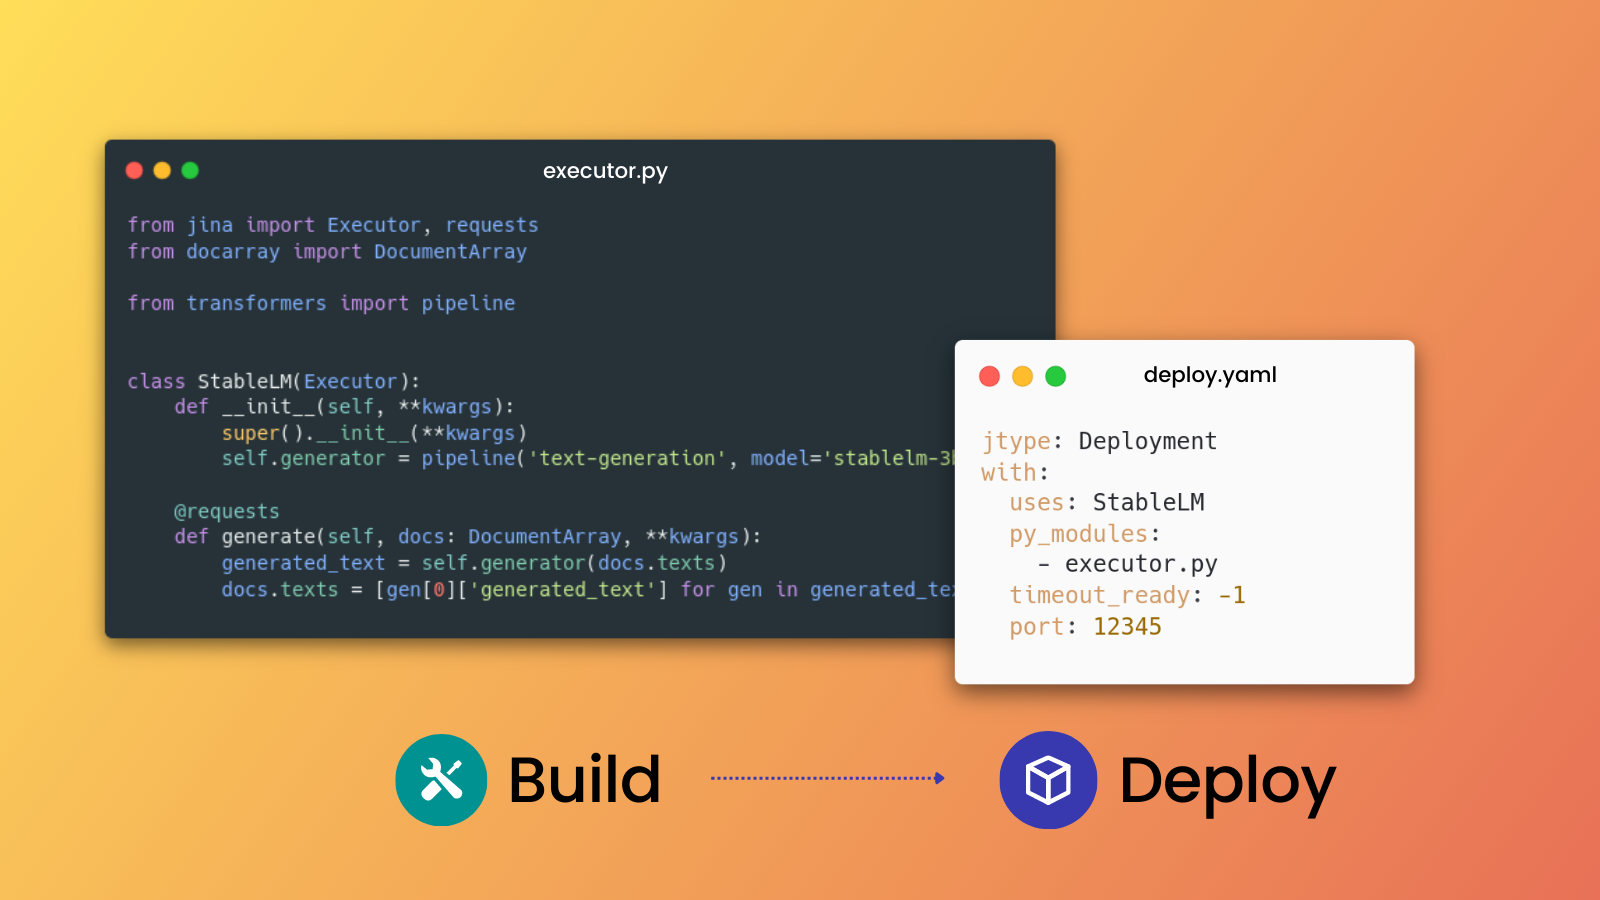
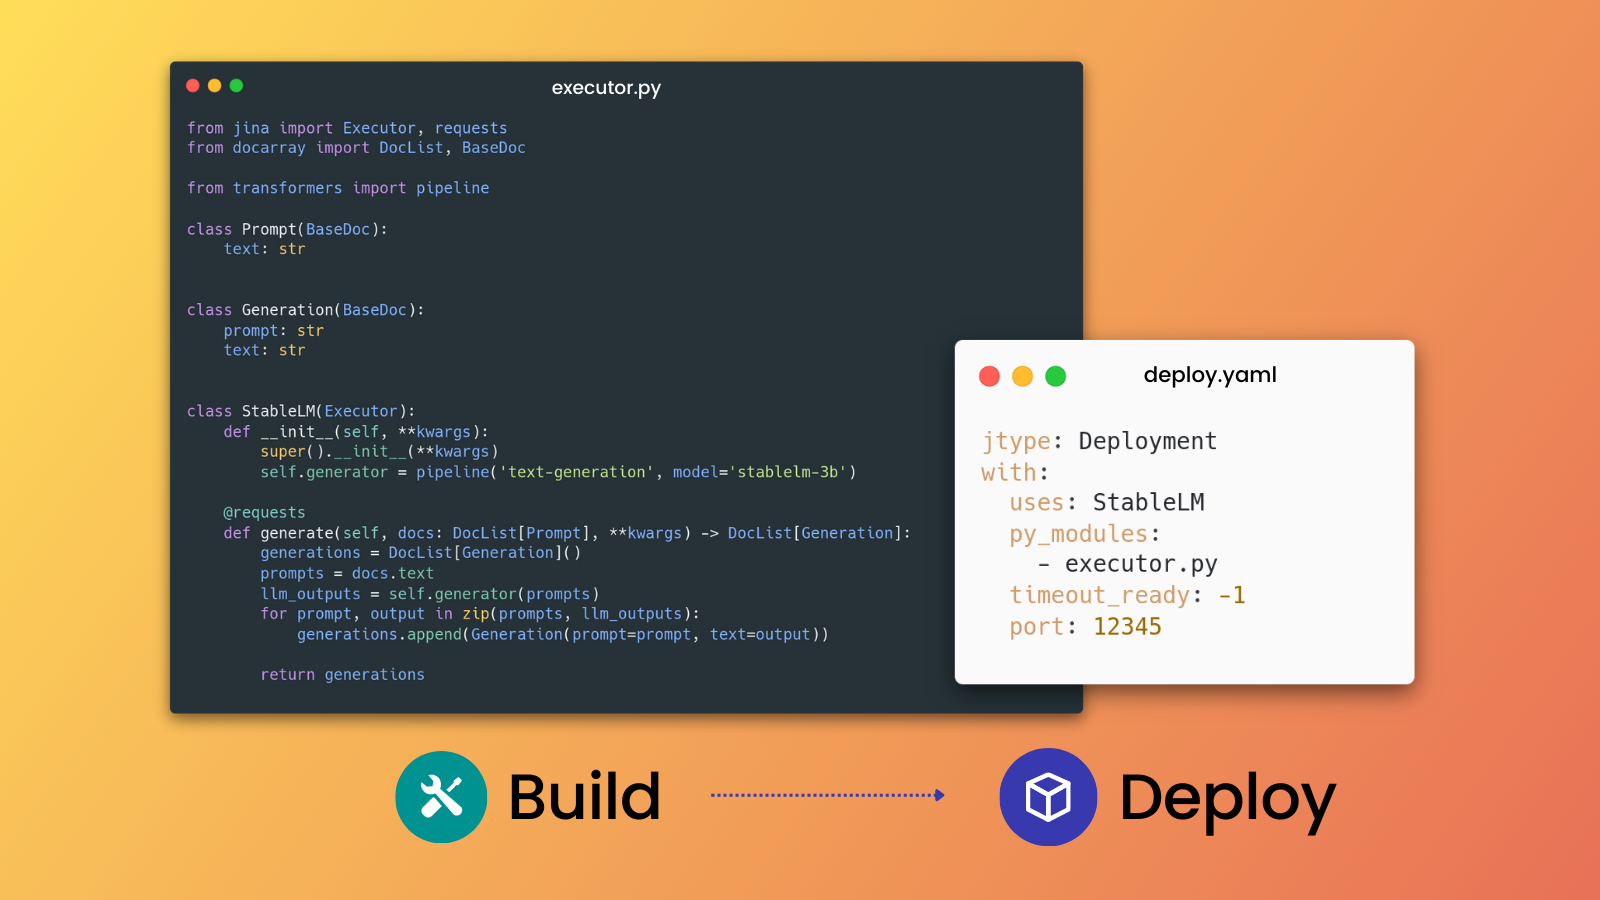
docs: update README not to use Hub

Changed region(s): [[0.0625, 0.0622, 0.8438, 0.9333], [0.5625, 0.84, 0.5938, 0.9022], [0.3438, 0.1867, 0.4062, 0.2178]]

diff --git a/README.md b/README.md
@@ -25,7 +25,6 @@
 
 Jina lets you build multimodal [**AI services**](#build-ai-services) and [**pipelines**](#build-a-pipeline) that communicate via gRPC, HTTP and WebSockets, then scale them up and deploy to production. You can focus on your logic and algorithms, without worrying about the infrastructure complexity.
 
-TODO: Adapt image to docarray >= 0.30
 ![](./.github/images/build-deploy.png)
 
 Jina provides a smooth Pythonic experience transitioning from local deployment to advanced orchestration frameworks like Docker-Compose, Kubernetes, or Jina AI Cloud. Jina makes advanced solution engineering and cloud-native technologies accessible to every developer.
@@ -121,8 +120,8 @@ class StableLM(Executor):
     def generate(self, docs: DocList[Prompt], **kwargs) -> DocList[Generation]:
         generations = DocList[Generation]()
         prompts = docs.texts
-        llm_ouptuts = self.generator(prompts)
-        for prompt, output in zip(prompts, llm_ouptuts):
+        llm_outputs = self.generator(prompts)
+        for prompt, output in zip(prompts, llm_outputs):
             generations.append(Generation(prompt=prompt, text=output))
         return generations
 ```
@@ -216,8 +215,43 @@ A Flow is a [DAG](https://de.wikipedia.org/wiki/DAG) pipeline, composed of a set
 > **Note**
 > If you just want to serve a single Executor, you can use a [Deployment](#build-ai--ml-services).
 
-TODO: This is not going to work, avoid reusing from Executor Hub
-For instance, let's combine [our StableLM language model](#build-ai--ml-services) with a Stable Diffusion image generation service from Jina AI's [Executor Hub](https://cloud.jina.ai/executors). Chaining these services together into a [Flow](https://docs.jina.ai/concepts/flow/) will give us a service that will generate images based on a prompt generated by the LLM.
+For instance, let's combine [our StableLM language model](#build-ai--ml-services) with a Stable Diffusion image generation service. Chaining these services together into a [Flow](https://docs.jina.ai/concepts/flow/) will give us a service that will generate images based on a prompt generated by the LLM.
+
+
+<table>
+<tr>
+<th><code>text_to_image.py</code></th> 
+<tr>
+<td>
+
+```python
+import numpy as np
+from jina import Executor, requests
+from docarray import BaseDoc, DocList
+from docarray.documents import ImageDoc
+
+class Generation(BaseDoc):
+    prompt: str
+    text: str
+
+
+class TextToImage(Executor):
+    def __init__(self, **kwargs):
+        super().__init__(**kwargs)
+        from diffusers import StableDiffusionPipeline
+        import torch
+        self.pipe = StableDiffusionPipeline.from_pretrained("CompVis/stable-diffusion-v1-4", torch_dtype=torch.float16).to("cuda")
+
+    @requests
+    def generate_image(self, docs: DocList[Generation], **kwargs) -> DocList[ImageDoc]:
+        images = self.pipe(docs.texts).images  # image here is in [PIL format](https://pillow.readthedocs.io/en/stable/)
+        for i, doc in enumerate(docs):
+            doc.tensor = np.array(images[i])
+```
+
+</td>
+</tr>
+</table>
 
 ![](./.github/images/flow-diagram.png)
 
@@ -235,16 +269,13 @@ Build the Flow with either Python or YAML:
 ```python
 from jina import Flow
 from executor import StableLM
+from text_to_image import TextToImage
 
 flow = (
-    Flow()
-    .add(uses=StableLM, timeout_ready=-1, port=12345)
-    .add(
-        uses='jinaai://jina-ai/TextToImage',
-        timeout_ready=-1,
-        install_requirements=True,
-    )
-)  # use the Executor from Jina's Executor hub
+    Flow(port=12345)
+    .add(uses=StableLM, timeout_ready=-1)
+    .add(uses=TextToImage, timeout_ready=-1)
+)
 
 with flow:
     flow.block()
@@ -262,9 +293,10 @@ executors:
     timeout_ready: -1
     py_modules:
       - executor.py
-  - uses: jinaai://jina-ai/TextToImage
+  - uses: TextToImage
     timeout_ready: -1
-    install_requirements: true
+    py_modules:
+      - text_to_image.py
 ```
 
 Then run the YAML Flow with the CLI: `jina flow --uses flow.yml`
@@ -279,13 +311,9 @@ Then, use [Jina Client](https://docs.jina.ai/concepts/client/) to make requests 
 ```python
 from jina import Client
 from docarray import DocList, BaseDoc
+from docarray.documents import ImageDoc
 
 class Prompt(BaseDoc):
-    text: str
-
-
-class Image(BaseDoc):
-    prompt: str
     text: str
 
 
@@ -294,9 +322,7 @@ prompt = Prompt(
 )
 
 client = Client(port=12345)  # use port from output above
-response = client.post(on='/', inputs=[prompt], return_type=DocList[Generation])
-
-print(response[0].text)
+response = client.post(on='/', inputs=[prompt], return_type=DocList[ImageDoc])
 
 response[0].display()
 ```
